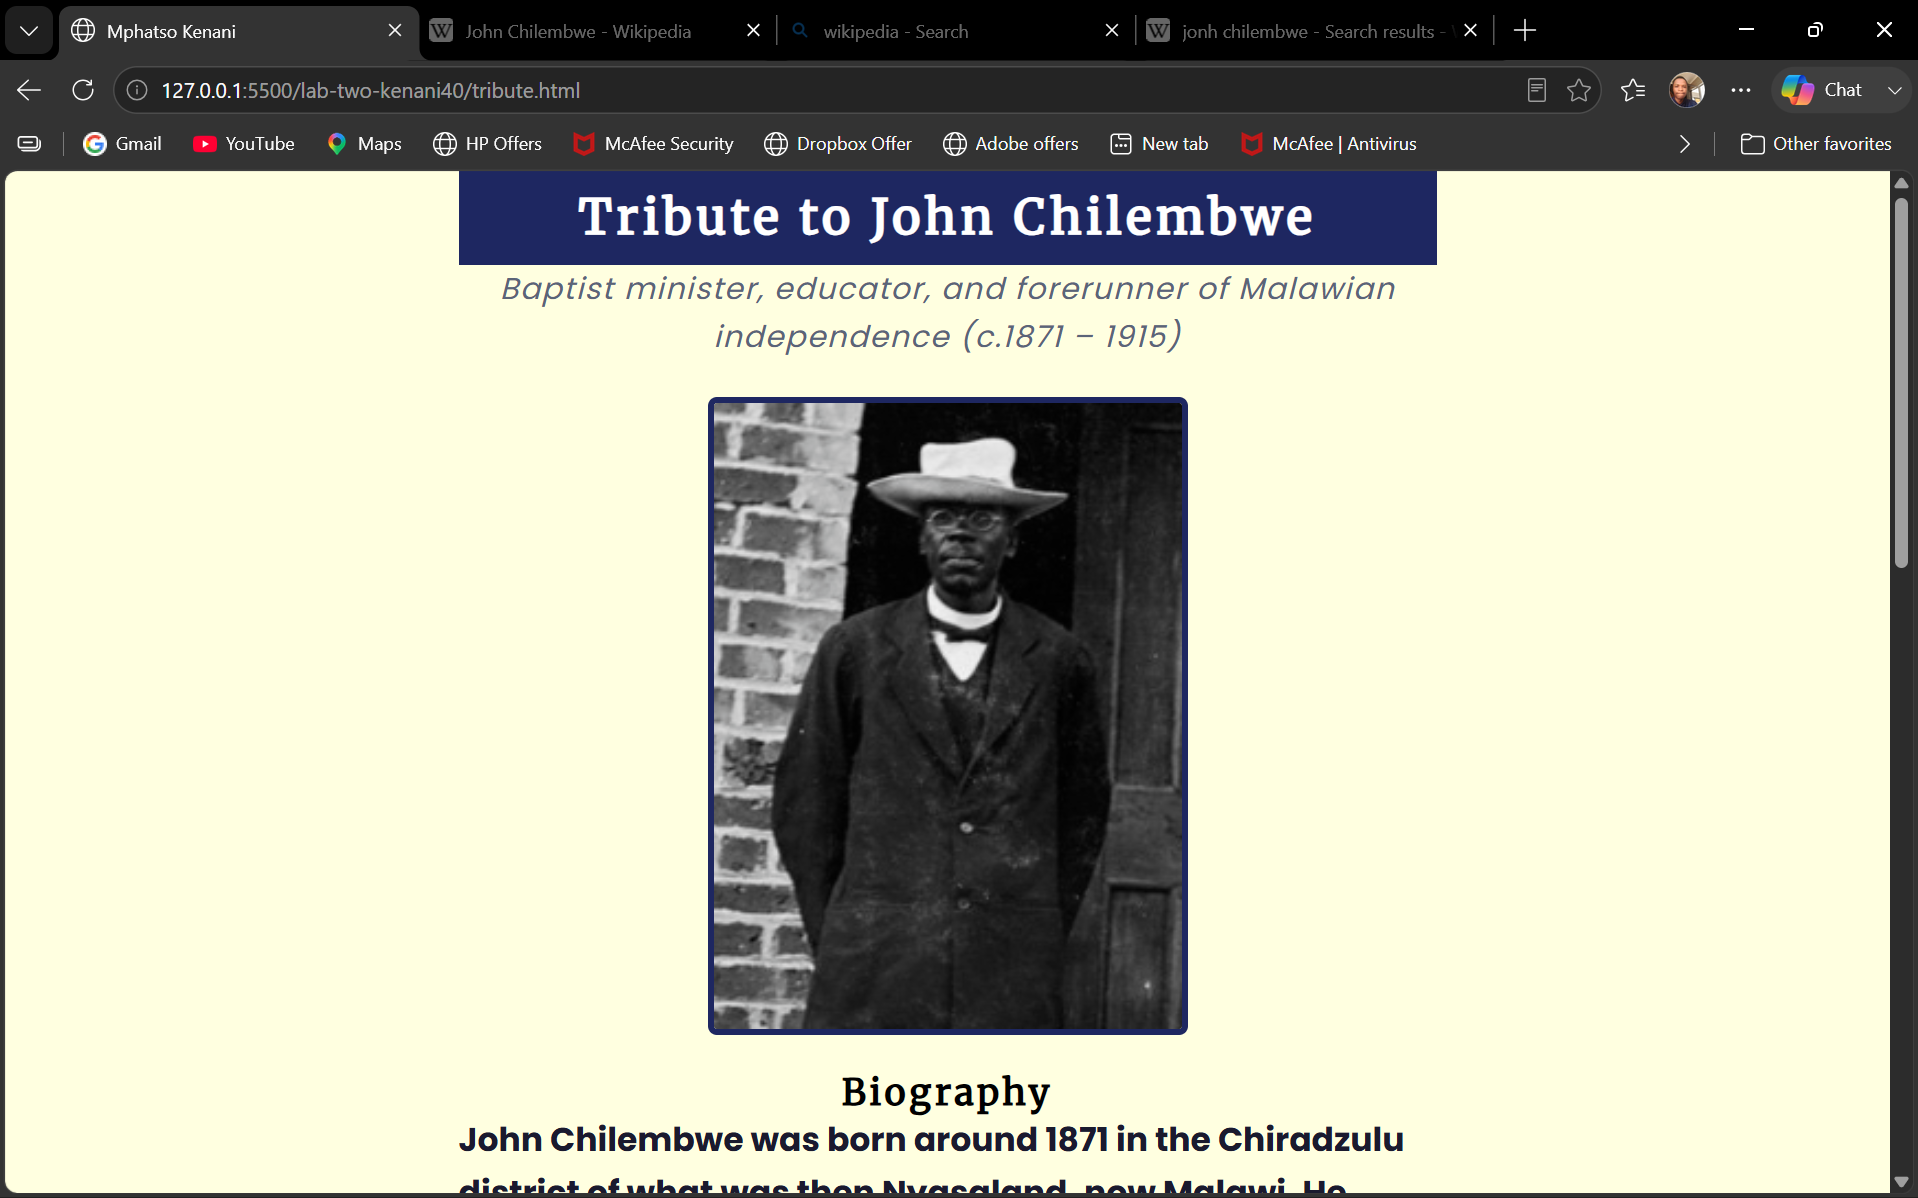
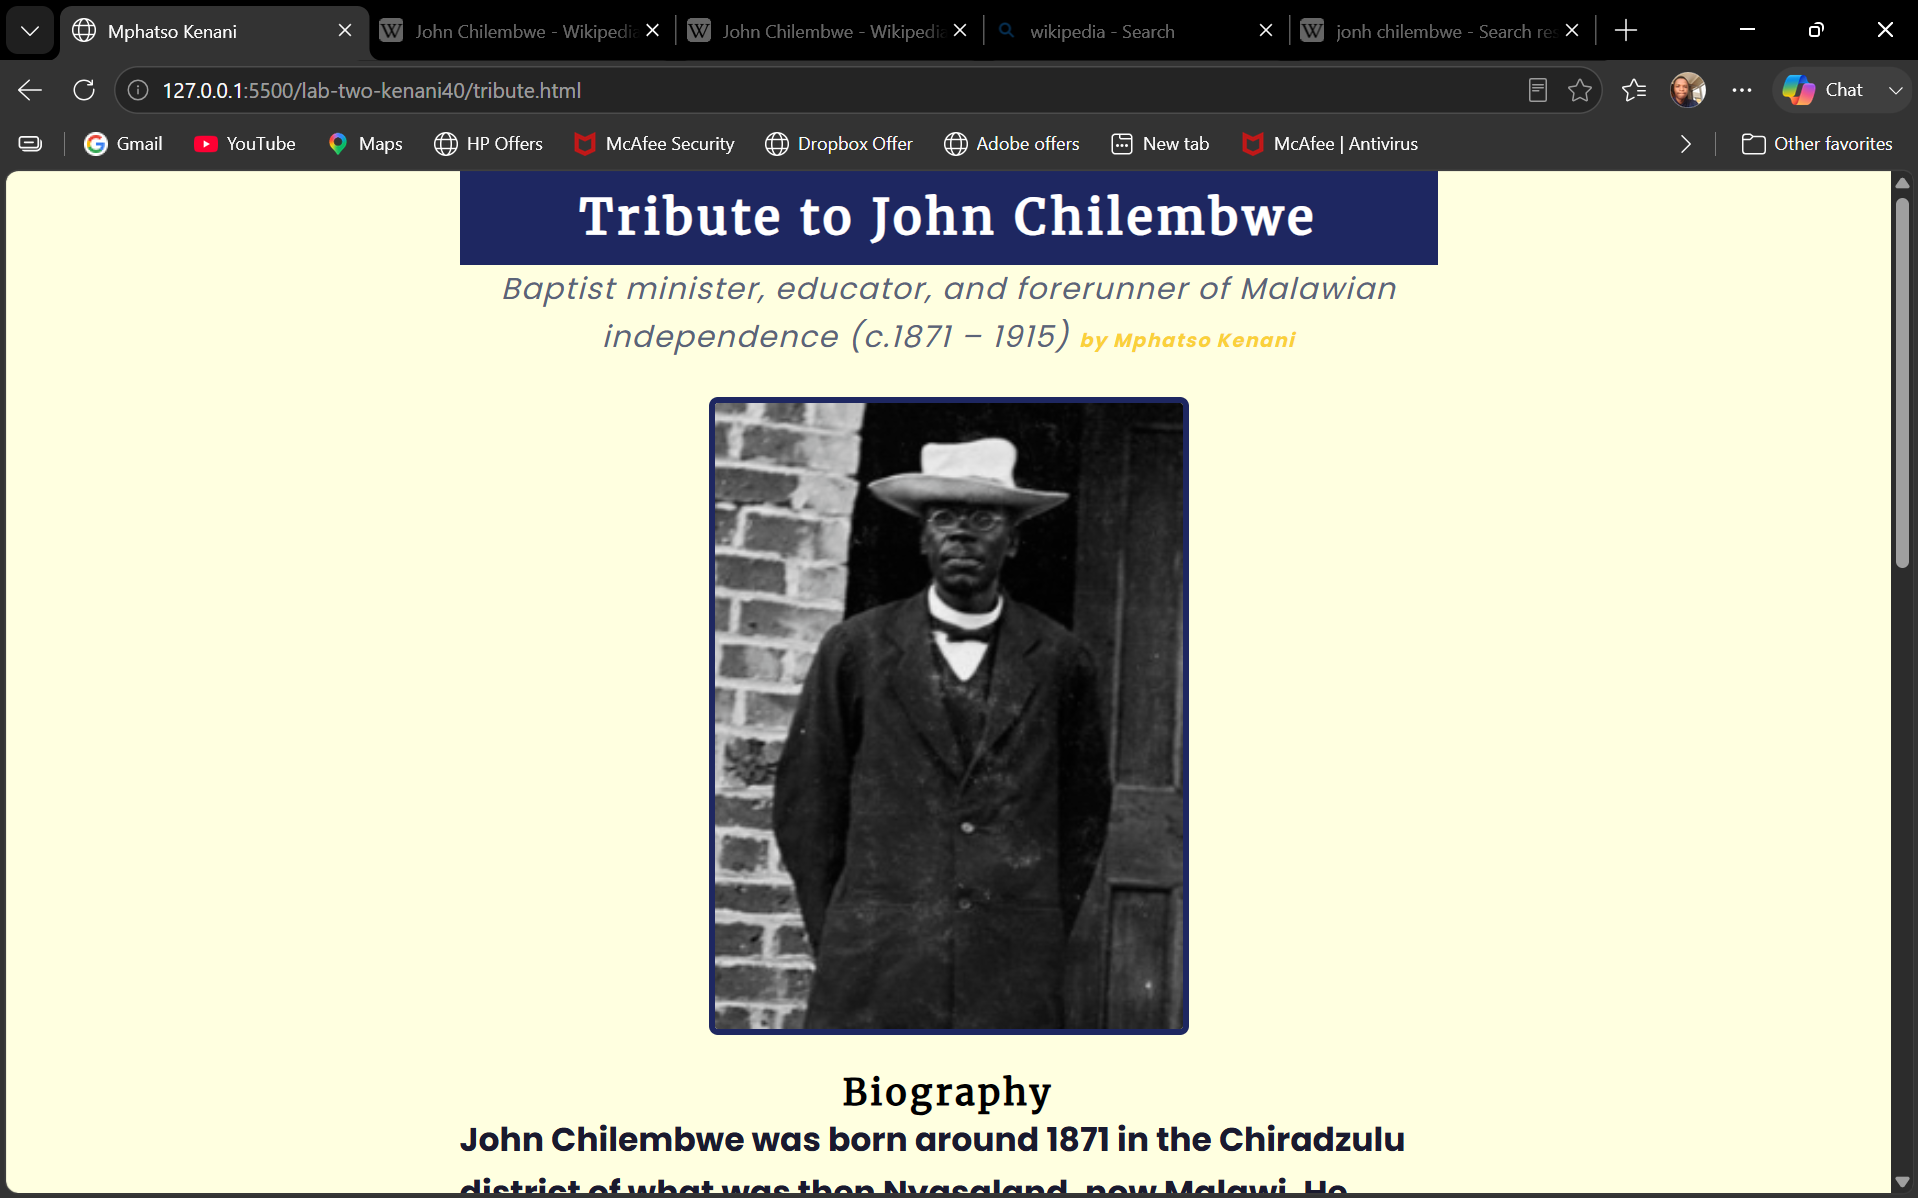
Lab 2 final: tribute page complete

diff --git a/tribute.html b/tribute.html
@@ -11,7 +11,7 @@
 <body>
   <div class="tribute-container">
     <h1 id="page-header">Tribute to John Chilembwe</h1>
-    <p class="subtitle">Baptist minister, educator, and forerunner of Malawian independence (c.1871 – 1915)</p>
+    <p class="subtitle">Baptist minister, educator, and forerunner of Malawian independence (c.1871 – 1915) <span class="authorhighlight">  by Mphatso Kenani</span></p>
     <img class="tribute-photo"
          src="https://upload.wikimedia.org/wikipedia/commons/f/f6/John_Chilembwe_%282%29_%28cropped%29.png?utm_source=en.wikipedia.org&utm_campaign=parser&utm_content=thumbnail_unscaled"
          alt="Historical photograph of John Chilembwe">
@@ -52,7 +52,6 @@
       <li><strong>January 1915</strong> — Leads the Chilembwe uprising against British rule.</li>
       <li><strong>3 February 1915</strong> — Killed by colonial forces near Mulanje.</li>
     </ol>
-
     <a class="source-link" href="https://en.wikipedia.org/wiki/John_Chilembwe" target="_blank" rel="noopener">
       Learn more on Wikipedia →
     </a>

diff --git a/css/style.css b/css/style.css
@@ -117,6 +117,12 @@ blockquote {
 
 
 /* task 5 */
+ .authorhighlight{
+    color: #fad13a;
+    font-weight: 700;
+    font-style: italic;
+    font-size: 0.8rem;
+ }
  
 .tribute-container {
   max-width: 700px;

diff --git a/Reflection.md b/Reflection.md
@@ -1,22 +1,22 @@
-# Lab 2 — Reflection
+# Lab 2  Reflection
 
 **Student Name:** Mphatso Kenani
 **Student ID:** BECE/21/SS/009
 
 ---
 
-### 1. Selector conflict — `p { color: red }` vs `.intro { color: blue }` on `<p class="intro">`
+### 1. Selector conflict  `p { color: red }` vs `.intro { color: blue }`
 
-The text will be **blue**. Even though the element selector `p` matches the tag, the class selector `.intro` is more specific than an element selector, so it wins regardless of the order the rules are written in. This is the basic idea behind CSS specificity: the browser doesn't just apply rules top-to-bottom — it ranks them by how specific the selector is (element < class < ID), and the most specific one that matches gets applied. If both rules had used element or both had used class selectors, then the one written last in the stylesheet would win instead.
+The text will be blue. A class selector beats an element selector, no matter which rule is written first. according to my research CSS specificity is  element < class < ID, and the most specific match wins. If both rules were the same type (both element or both class), then whichever came last in the file would win instead.
 
 ### 2. `rem` units and accessibility
 
-`rem` stands for "root em" — it means the size is relative to the font-size set on the root `<html>` element (normally 16px by default), not relative to a fixed pixel value. This matters for accessibility because if a visually impaired user increases their browser's default font size (say to 20px), every element sized in `rem` scales up proportionally along with it, keeping the whole page readable and properly proportioned. Text sized in fixed `px` values ignores that browser setting completely and stays the same size, which can leave a user stuck with text that's too small to read comfortably. So if the browser default changes to 20px, a paragraph set to `1rem` would now render at 20px instead of 16px, while a `16px` paragraph would stay at 16px no matter what.
+`rem` means "root em" : sized relative to the root `<html>` font-size (default 16px), not a fixed pixel value. If a user alters their browser's default font size to 20px, anything in `rem` grows with it, so the page stays readable. `px` would ignore that setting completely and stays locked at the same size. So a `1rem` paragraph would become 20px, while a `16px` paragraph stays exactly 16px.
 
 ### 3. Google Fonts and offline access
 
-Google Fonts are loaded from Google's CDN over the internet, so if a user in a rural area of Malawi has no internet connection, the `<link>` request to fonts.googleapis.com will simply fail to load. The browser doesn't leave the text blank though — it falls back to the next font listed in the `font-family` stack. This is exactly why the lab always lists fallback fonts, e.g. `font-family: 'Poppins', Arial, sans-serif;`. If Poppins can't load, the browser tries Arial, and if that's unavailable too, it falls back to the operating system's generic sans-serif font. To make sure the page stays genuinely readable without internet, it's good practice to always include a common, pre-installed fallback font (like Arial or Georgia) at the end of every `font-family` list, rather than relying on the Google Font alone.
+Google Fonts load from Google's servers, so with no internet the font request just fails. The browser doesn't leave blank text — it falls back to the next font in the `font-family` list, e.g. `'Poppins', Arial, sans-serif`.This explains the reason why fallbacks matter: we should always end the list with a common, pre-installed font like Arial or Georgia so the page stays readable offline instead of depending on the Google Font alone.
 
 ### 4. HSL — Hue, Saturation, Lightness
 
-In `hsl(hue, saturation, lightness)`: **hue** is a position on the colour wheel from 0–360° (0/360 = red, 120 = green, 240 = blue); **saturation** is how intense or "pure" the colour is, from 0% (grey, no colour) to 100% (fully vivid); and **lightness** controls how close the colour is to black or white, from 0% (black) through 50% (the pure colour) to 100% (white). For `hsl(120, 100%, 50%)`, which is a vivid pure green, making it "much lighter" means increasing the **lightness** value — pushing it up to somewhere around 80–90% would turn it into a soft, pale green while keeping the same hue and saturation.
+Hue is the colour itself, 0–360° on the colour wheel (0=red, 120=green, 240=blue). Saturation is how strong the colour is, 0% (grey) to 100% (vivid). Lightness is how close to black or white it is, 0% (black) to 100% (white), with 50% being the pure colour. To make `hsl(120, 100%, 50%)` much lighter, raise the lightness — around 80–90% turns it into a soft pale green, same hue and saturation.

diff --git a/README.md b/README.md
@@ -1,1 +1,8 @@
-[![Review Assignment Due Date](https://classroom.github.com/assets/deadline-readme-button-22041afd0340ce965d47ae6ef1cefeee28c7c493a6346c4f15d667ab976d596c.svg)](https://classroom.github.com/a/ORIM141P)
+## TRIBUTE PAGE
+
+**Student Name:** Mphatso Kenani
+
+**Student ID:** BECE/21/SS/009
+
+![tributepage](./screenshot.png)
+

diff --git a/LOG.md b/LOG.md
@@ -1,4 +1,4 @@
-# Lab 2 — Error Log
+# Lab 2 Error Log
 
 **Student Name:** Mphatso Kenani
 
